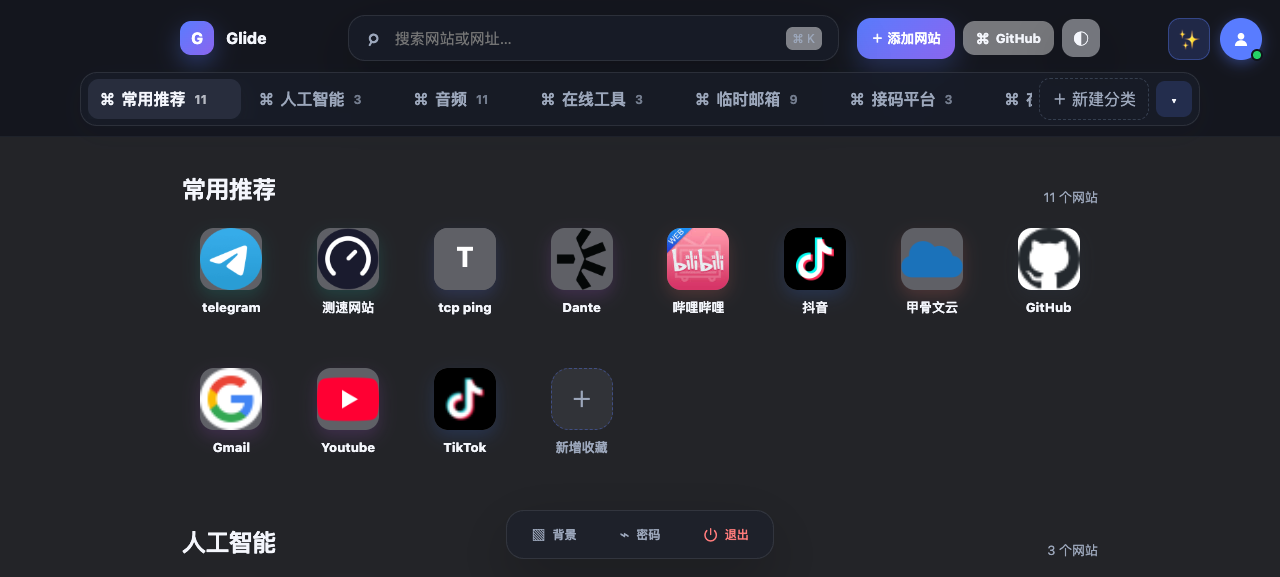
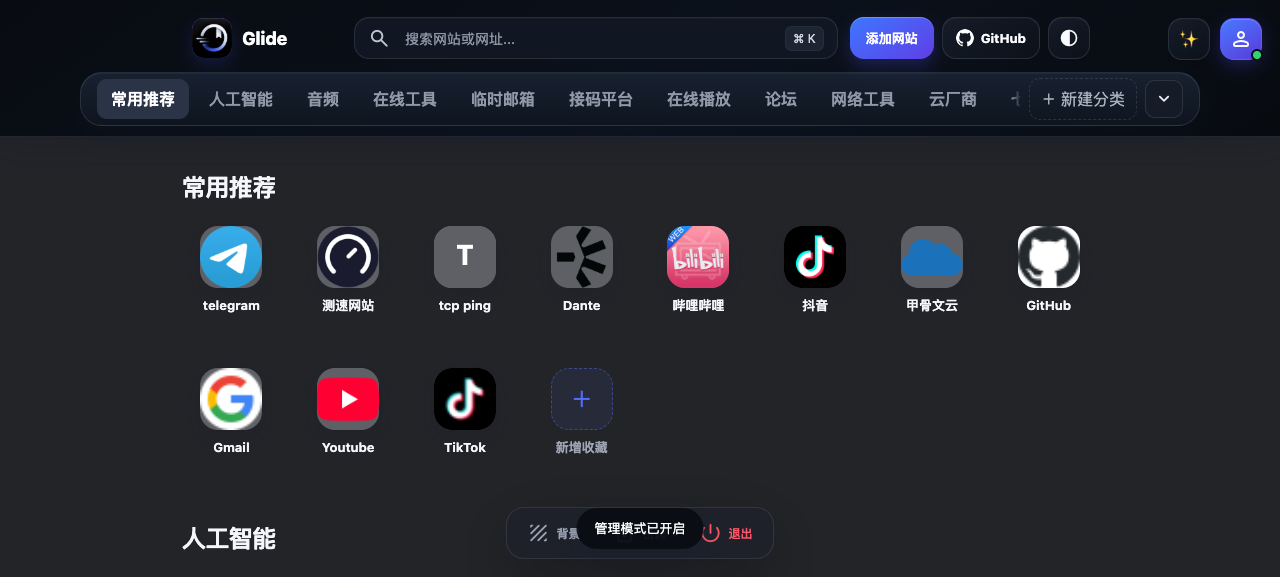
Update README with latest features and fresh screenshots

diff --git a/README.md b/README.md
@@ -19,7 +19,12 @@
 - ✨ **AI 一键批量生成**：管理员模式下可在 AI 设置里批量为全部书签生成中文备注
 - **高清书签图标自动抓取**：优先抓取 `apple-touch-icon`，回退到 256px favicon，最后兜底首字母
 - **访客 / 管理员模式**：访客只看不改；管理员登录后可增删改分类和书签
+- **暖色浅色主题**：米色背景 + 暖琥珀主色，顶部导航/按钮/分类栏/弹窗/表情选择器统一暖色系
+- **分类栏贴边渐隐**：默认右端虚化提示"还有分类"，向左滑动后才出现左端渐隐，不打扰首个分类
+- **分类图标选择器**：微信表情包式 24 图标网格，点击即用，也支持自定义输入
+- **记住密码**：勾选后密码明文存本机浏览器，下次打开登录框自动填入（仍需点登录）
 - **拖拽排序**：分类和书签都支持拖拽排序和跨分类移动
+- **Safari 书签/主屏幕图标优化**：标准 180×180 `apple-touch-icon` + 64×64 `favicon`，添加书签时自动带出
 - **暗色 / 亮色主题**：跟随系统或手动切换
 - **全键盘可达**：`⌘/Ctrl + K` 聚焦搜索
 
@@ -32,10 +37,15 @@
 - ✨ 批量为全部书签生成备注（管理员 → AI 设置 → 批量生成）
 - 按名称或网址搜索，`⌘/Ctrl + K` 聚焦
 - 暗色 / 浅色主题、玻璃拟态界面
+- 暖色浅色主题：深亚麻咖背景，顶部导航/按钮/分类栏/弹窗全部统一暖色系
+- 分类栏贴边渐隐：默认右端虚化提示，滑动后才出现左端渐隐；选中分类有 3px 主色下划线
+- 分类图标选择器：微信表情包式 24 图标网格（8 列），手机端自动 6 列
+- 登录界面「记住密码」：勾选后密码明文存本机浏览器，下次自动填入
 - 顶部横向分类栏吸顶，随滚动自动高亮当前分组
 - 管理员可更换网页背景、设置 / 修改 / 清空密码
 - 访客模式隐藏全部修改操作
 - 手机端使用可横向滑动的顶部分类栏；长按卡片可快速编辑
+- Safari 添加书签/主屏幕：标准 `apple-touch-icon`（180×180）+ `favicon`（64×64）
 
 ## 快速部署（小白教程 · 7 步）
 
